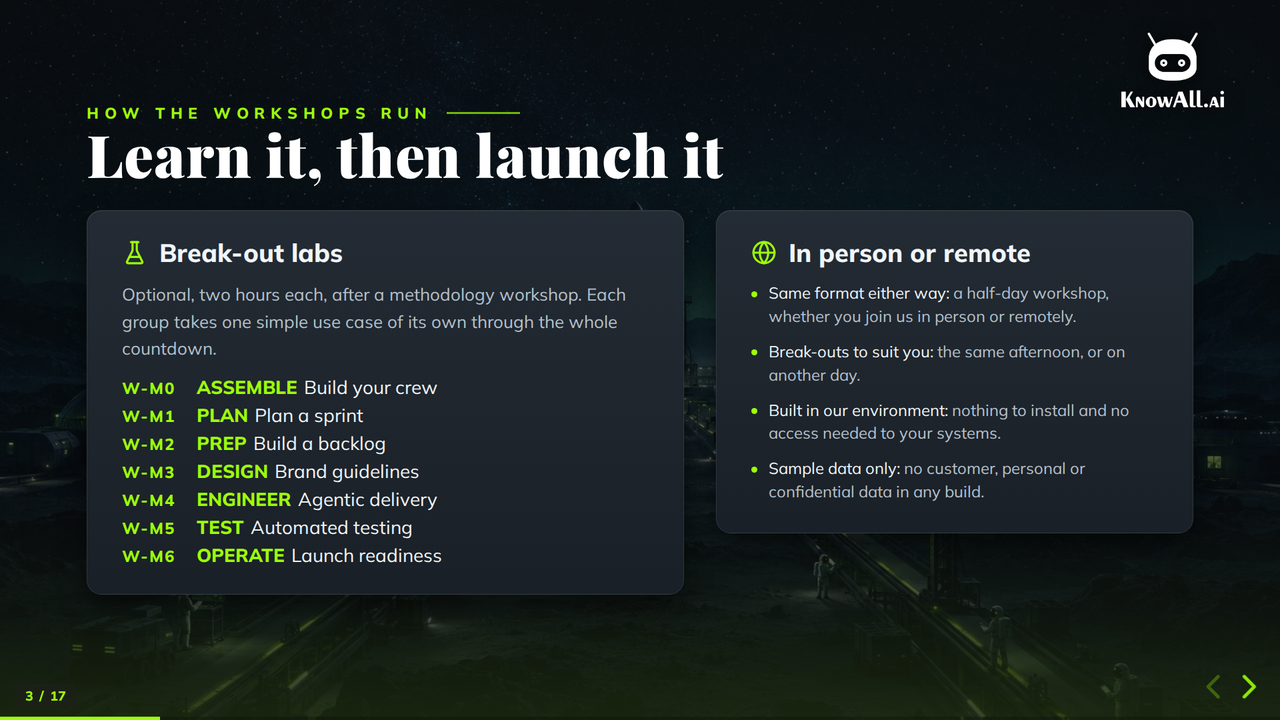
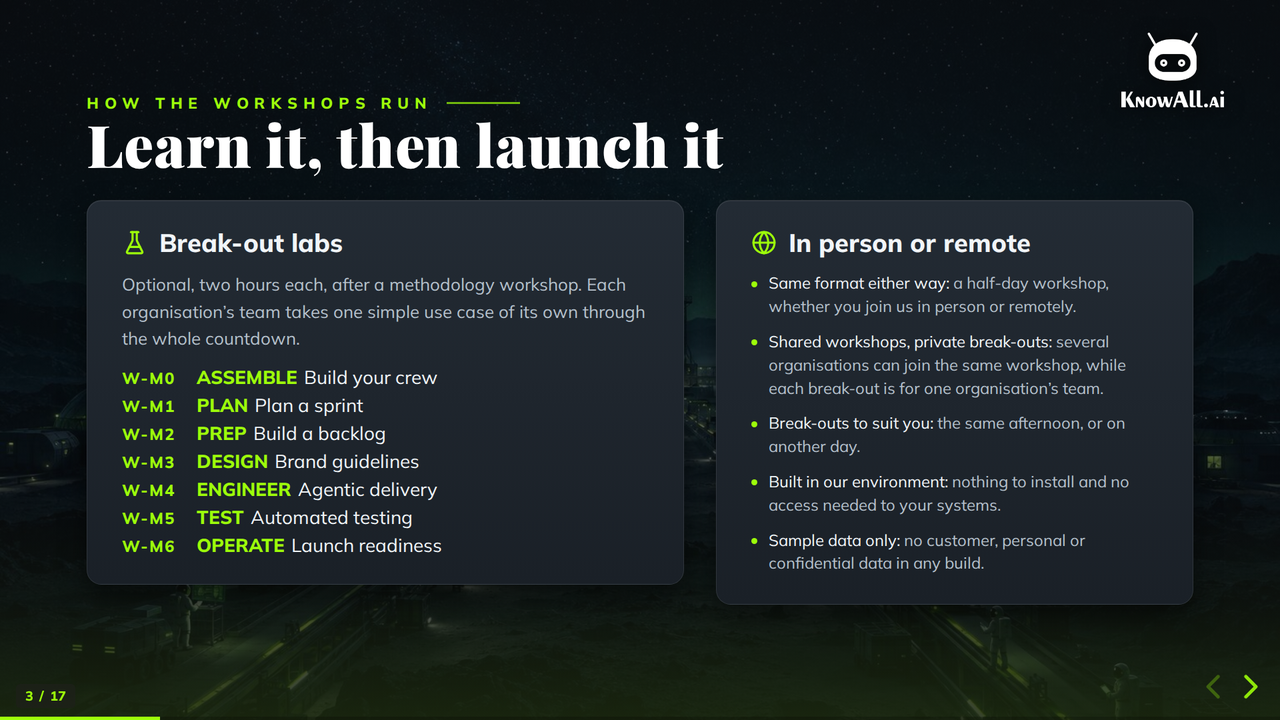
docs(presentations): shared workshops, break-outs per organisation
Several organisations can join the same workshop, while each break-out is for
one organisation's team and its own use case.

diff --git a/presentations-src/tminus15-workshops.html b/presentations-src/tminus15-workshops.html
@@ -486,7 +486,7 @@
             <div class="tm-tracks">
               <div class="tm-track">
                 <h3><svg class="ic" aria-hidden="true"><use href="icons.svg#i-flask-conical" /></svg>Break-out labs</h3>
-                <p class="tm-rule">Optional, two hours each, after a methodology workshop. Each group takes one simple use case of its own through the whole countdown.</p>
+                <p class="tm-rule">Optional, two hours each, after a methodology workshop. Each organisation&rsquo;s team takes one simple use case of its own through the whole countdown.</p>
                 <ol class="tm-labs">
                   <li><span class="code">W-M0</span><span><span class="phase">ASSEMBLE</span>Build your crew</span></li>
                   <li><span class="code">W-M1</span><span><span class="phase">PLAN</span>Plan a sprint</span></li>
@@ -501,6 +501,7 @@
                 <h3><svg class="ic" aria-hidden="true"><use href="icons.svg#i-globe" /></svg>In person or remote</h3>
                 <ul class="tm-facts">
                   <li><strong>Same format either way:</strong> a half-day workshop, whether you join us in person or remotely.</li>
+                  <li><strong>Shared workshops, private break-outs:</strong> several organisations can join the same workshop, while each break-out is for one organisation&rsquo;s team.</li>
                   <li><strong>Break-outs to suit you:</strong> the same afternoon, or on another day.</li>
                   <li><strong>Built in our environment:</strong> nothing to install and no access needed to your systems.</li>
                   <li><strong>Sample data only:</strong> no customer, personal or confidential data in any build.</li>

diff --git a/public/presentations/tminus15-workshops.html b/public/presentations/tminus15-workshops.html
@@ -510,7 +510,7 @@
             <div class="tm-tracks">
               <div class="tm-track">
                 <h3><svg class="ic" aria-hidden="true"><use href="icons.svg#i-flask-conical" /></svg>Break-out labs</h3>
-                <p class="tm-rule">Optional, two hours each, after a methodology workshop. Each group takes one simple use case of its own through the whole countdown.</p>
+                <p class="tm-rule">Optional, two hours each, after a methodology workshop. Each organisation&rsquo;s team takes one simple use case of its own through the whole countdown.</p>
                 <ol class="tm-labs">
                   <li><span class="code">W-M0</span><span><span class="phase">ASSEMBLE</span>Build your crew</span></li>
                   <li><span class="code">W-M1</span><span><span class="phase">PLAN</span>Plan a sprint</span></li>
@@ -525,6 +525,7 @@
                 <h3><svg class="ic" aria-hidden="true"><use href="icons.svg#i-globe" /></svg>In person or remote</h3>
                 <ul class="tm-facts">
                   <li><strong>Same format either way:</strong> a half-day workshop, whether you join us in person or remotely.</li>
+                  <li><strong>Shared workshops, private break-outs:</strong> several organisations can join the same workshop, while each break-out is for one organisation&rsquo;s team.</li>
                   <li><strong>Break-outs to suit you:</strong> the same afternoon, or on another day.</li>
                   <li><strong>Built in our environment:</strong> nothing to install and no access needed to your systems.</li>
                   <li><strong>Sample data only:</strong> no customer, personal or confidential data in any build.</li>
